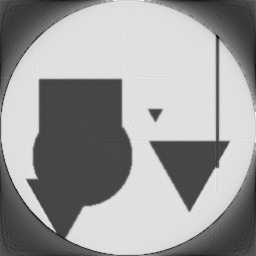
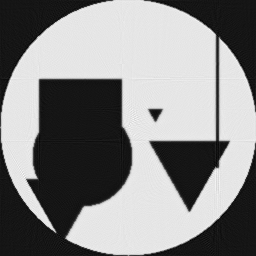
Added noise function

diff --git a/tomo_lib.py b/tomo_lib.py
@@ -1,6 +1,7 @@
 import math
 from skimage.transform import rotate
 from skimage.draw import random_shapes
+from skimage.util import random_noise
 import numpy as np
 import scipy.io
 import scipy.misc
@@ -53,6 +54,9 @@ def savesinogram(filename, data, numrays, numangles):
 def savebackprojection(filename, data, size):
     reshaped = data.reshape((size,size))
     scipy.misc.toimage(reshaped).save(filename)
+
+def add_noise(image):
+    return random_noise(image, mode='poisson', seed=None, clip=True)
 
 
 def get_phantom(size):
